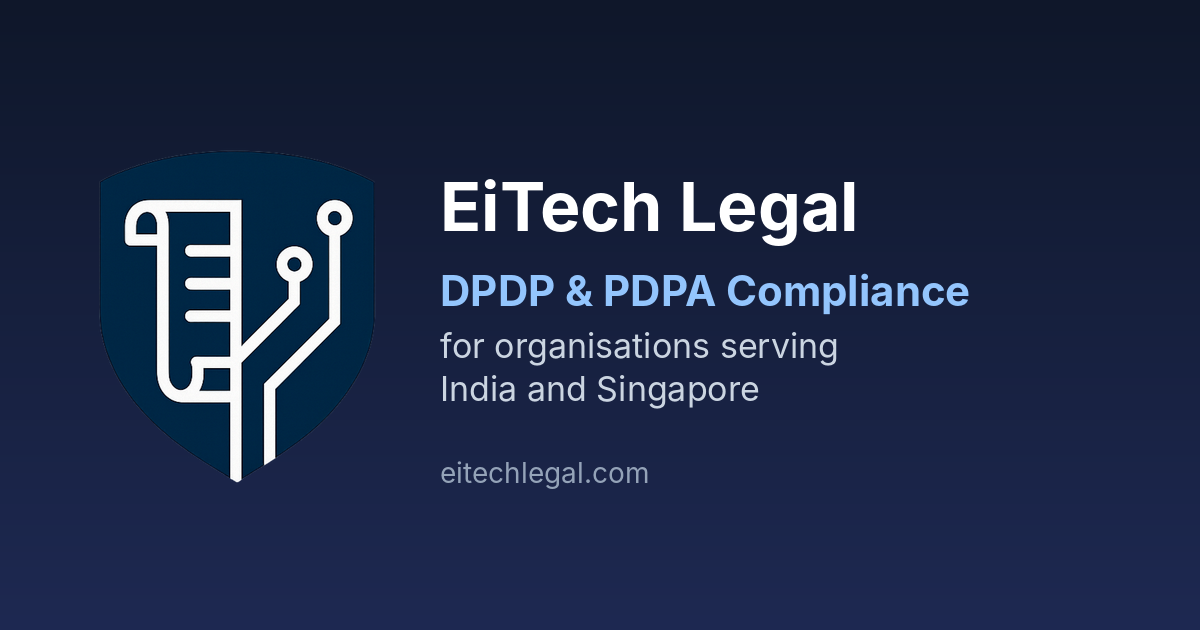
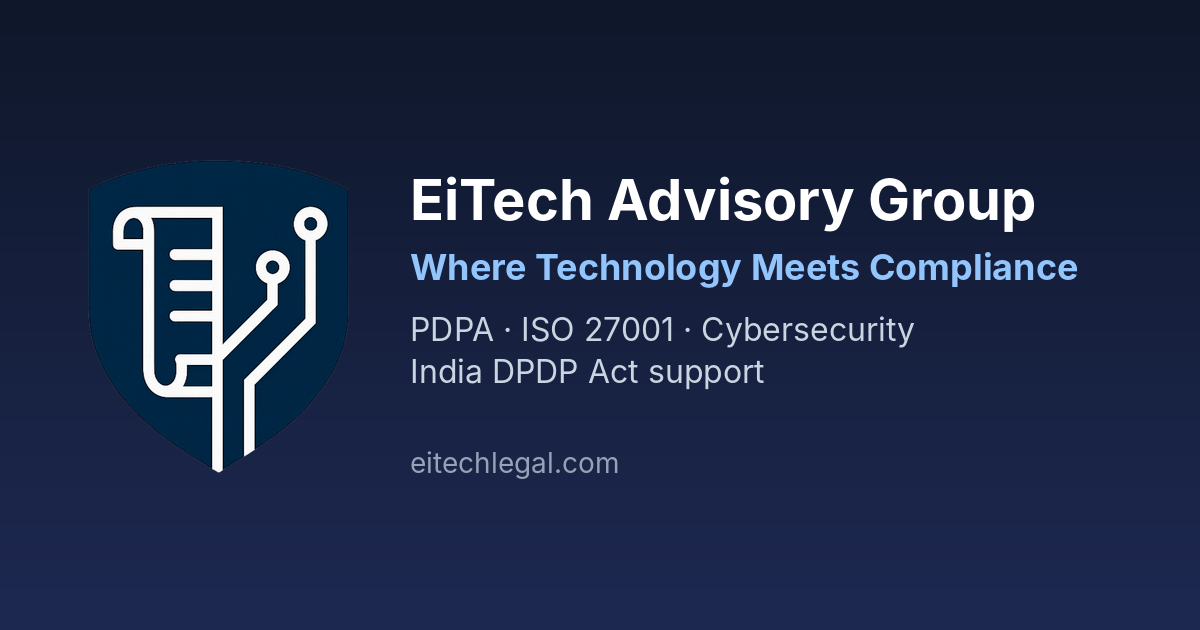
Rename site brand to registered name EiTech Advisory Group
- Logo text with Legal-Tech · Compliance · Cybersecurity tagline
- Page titles, share tags, share image and README use registered name
- Privacy policy and terms: "business" instead of "company"

Claude-Session: https://claude.ai/code/session_01K3U7yVqoyezVagjHfdywYb

Changed region(s): [[0.3392, 0.2714, 0.8942, 0.6635], [0.0925, 0.3016, 0.3083, 0.7841], [0.3392, 0.7238, 0.555, 0.7841]]

diff --git a/index.html b/index.html
@@ -3,21 +3,21 @@
 <head>
     <meta charset="UTF-8">
     <meta name="viewport" content="width=device-width, initial-scale=1.0">
-    <title>Data Protection, Cybersecurity &amp; PDPA Compliance | Singapore | EiTech Legal</title>
+    <title>Data Protection, Cybersecurity &amp; PDPA Compliance | Singapore | EiTech Advisory Group</title>
     <meta name="description" content="Where technology meets compliance: PDPA, ISO 27001, cybersecurity, DPO and database security advisory for Singapore businesses, from policy down to your systems.">
     <link rel="canonical" href="https://eitechlegal.com/">
     <link rel="icon" type="image/png" sizes="32x32" href="assets/favicon-32.png">
     <link rel="apple-touch-icon" href="assets/apple-touch-icon.png">
     <meta property="og:type" content="website">
-    <meta property="og:site_name" content="EiTech Legal">
-    <meta property="og:title" content="Data Protection, Cybersecurity &amp; PDPA Compliance | Singapore | EiTech Legal">
+    <meta property="og:site_name" content="EiTech Advisory Group">
+    <meta property="og:title" content="Data Protection, Cybersecurity &amp; PDPA Compliance | Singapore | EiTech Advisory Group">
     <meta property="og:description" content="Where technology meets compliance: PDPA, ISO 27001, cybersecurity, DPO and database security advisory for Singapore businesses, from policy down to your systems.">
     <meta property="og:url" content="https://eitechlegal.com/">
     <meta property="og:image" content="https://eitechlegal.com/assets/og-image.png">
     <meta property="og:image:width" content="1200">
     <meta property="og:image:height" content="630">
     <meta name="twitter:card" content="summary_large_image">
-    <script type="application/ld+json">{"@context": "https://schema.org", "@type": "ProfessionalService", "name": "EiTech Advisory Group", "alternateName": "EiTech Legal", "url": "https://eitechlegal.com/", "logo": "https://eitechlegal.com/logo.png", "image": "https://eitechlegal.com/assets/og-image.png", "email": "contact@eitechlegal.com", "address": {"@type": "PostalAddress", "addressCountry": "SG"}, "areaServed": ["SG", "IN"], "description": "Data protection, cybersecurity and PDPA compliance consulting in Singapore, with India DPDP Act support. Not a law firm; does not provide legal advice.", "knowsAbout": ["DPDP Act 2023", "PDPA", "ISO/IEC 27001", "Cybersecurity", "Data protection"]}</script>
+    <script type="application/ld+json">{"@context": "https://schema.org", "@type": "ProfessionalService", "name": "EiTech Advisory Group", "url": "https://eitechlegal.com/", "logo": "https://eitechlegal.com/logo.png", "image": "https://eitechlegal.com/assets/og-image.png", "email": "contact@eitechlegal.com", "address": {"@type": "PostalAddress", "addressCountry": "SG"}, "areaServed": ["SG", "IN"], "description": "Data protection, cybersecurity and PDPA compliance consulting in Singapore, with India DPDP Act support. Not a law firm; does not provide legal advice.", "knowsAbout": ["DPDP Act 2023", "PDPA", "ISO/IEC 27001", "Cybersecurity", "Data protection"]}</script>
     
     
     
@@ -627,8 +627,8 @@
     <nav class="navbar" id="navbar">
         <div class="nav-container">
             <a href="#home" class="logo">
-                <img src="logo.png" alt="EiTech Legal Logo" class="logo-img" onerror="this.style.display='none'">
-                <span class="logo-text">EiTech Legal</span>
+                <img src="logo.png" alt="EiTech Advisory Group logo" class="logo-img" onerror="this.style.display='none'">
+                <span class="logo-text">EiTech Advisory Group<small class="logo-tagline">Legal-Tech · Compliance · Cybersecurity</small></span>
             </a>
             <ul class="nav-menu">
                 <li><a href="#home" class="nav-link active">Home</a></li>
@@ -727,9 +727,9 @@
         <div class="container">
             <div class="about-content">
                 <div class="about-text">
-                    <h2>About EiTech Legal</h2>
+                    <h2>About EiTech Advisory Group</h2>
                     <p>
-                        EiTech Legal is a boutique advisory firm specializing in data protection, cybersecurity and regulatory compliance for organisations in Singapore and the region. We combine legal training with more than 25 years of hands-on enterprise IT experience, so compliance programmes are grounded in how your systems and data actually work.
+                        EiTech Advisory Group is a boutique advisory firm specializing in data protection, cybersecurity and regulatory compliance for organisations in Singapore and the region. We combine legal training with more than 25 years of hands-on enterprise IT experience, so compliance programmes are grounded in how your systems and data actually work.
                     </p>
                     <div class="founder-card">
                         <h3>About our founder</h3>

diff --git a/india.html b/india.html
@@ -3,14 +3,14 @@
 <head>
     <meta charset="UTF-8">
     <meta name="viewport" content="width=device-width, initial-scale=1.0">
-    <title>India DPDP Compliance &amp; Property Document Verification | EiTech Legal</title>
+    <title>India DPDP Compliance &amp; Property Document Verification | EiTech Advisory Group</title>
     <meta name="description" content="India-focused compliance services: DPDP Act readiness, property document verification support, cybersecurity and AI governance resources for organisations in India and Singapore.">
     <link rel="canonical" href="https://eitechlegal.com/india.html">
     <link rel="icon" type="image/png" sizes="32x32" href="assets/favicon-32.png">
     <link rel="apple-touch-icon" href="assets/apple-touch-icon.png">
     <meta property="og:type" content="website">
-    <meta property="og:site_name" content="EiTech Legal">
-    <meta property="og:title" content="India DPDP Compliance &amp; Property Document Verification | EiTech Legal">
+    <meta property="og:site_name" content="EiTech Advisory Group">
+    <meta property="og:title" content="India DPDP Compliance &amp; Property Document Verification | EiTech Advisory Group">
     <meta property="og:description" content="India-focused compliance services: DPDP Act readiness, property document verification support, cybersecurity and AI governance resources for organisations in India and Singapore.">
     <meta property="og:url" content="https://eitechlegal.com/india.html">
     <meta property="og:image" content="https://eitechlegal.com/assets/og-image.png">
@@ -465,8 +465,8 @@
     <nav class="navbar">
         <div class="nav-container">
             <a href="index.html" class="logo">
-                <img src="logo.png" alt="EiTech Legal Logo" class="logo-img" onerror="this.style.display='none'">
-                <span class="logo-text">EiTech Legal</span>
+                <img src="logo.png" alt="EiTech Advisory Group logo" class="logo-img" onerror="this.style.display='none'">
+                <span class="logo-text">EiTech Advisory Group<small class="logo-tagline">Legal-Tech · Compliance · Cybersecurity</small></span>
             </a>
             <ul class="nav-menu">
                 <li><a href="index.html">Home</a></li>
@@ -619,7 +619,7 @@
                         <li><a href="tel:18001144949" class="resource-link">CERT-In Helpdesk: 1800-11-4949</a></li>
                         <li><a href="https://cybercrime.gov.in/" class="resource-link external-link" target="_blank">National Cybercrime Reporting Portal</a></li>
                         <li><a href="tel:1930" class="resource-link">Cybercrime Helpline: 1930</a></li>
-                        <li><a href="mailto:contact@eitechlegal.com" class="resource-link">Contact EiTech (business hours)</a></li>
+                        <li><a href="mailto:contact@eitechlegal.com" class="resource-link">Contact us (business hours)</a></li>
                     </ul>
                 </div>
             </div>

diff --git a/resources.html b/resources.html
@@ -3,14 +3,14 @@
 <head>
     <meta charset="UTF-8">
     <meta name="viewport" content="width=device-width, initial-scale=1.0">
-    <title>PDPA, Cybersecurity &amp; Compliance Resources for Singapore | EiTech Legal</title>
+    <title>PDPA, Cybersecurity &amp; Compliance Resources for Singapore | EiTech Advisory Group</title>
     <meta name="description" content="Curated official resources on Singapore&#x27;s PDPA, data breach notification, CSA cybersecurity schemes, ISO 27001, NIST CSF and GDPR.">
     <link rel="canonical" href="https://eitechlegal.com/resources.html">
     <link rel="icon" type="image/png" sizes="32x32" href="assets/favicon-32.png">
     <link rel="apple-touch-icon" href="assets/apple-touch-icon.png">
     <meta property="og:type" content="website">
-    <meta property="og:site_name" content="EiTech Legal">
-    <meta property="og:title" content="PDPA, Cybersecurity &amp; Compliance Resources for Singapore | EiTech Legal">
+    <meta property="og:site_name" content="EiTech Advisory Group">
+    <meta property="og:title" content="PDPA, Cybersecurity &amp; Compliance Resources for Singapore | EiTech Advisory Group">
     <meta property="og:description" content="Curated official resources on Singapore&#x27;s PDPA, data breach notification, CSA cybersecurity schemes, ISO 27001, NIST CSF and GDPR.">
     <meta property="og:url" content="https://eitechlegal.com/resources.html">
     <meta property="og:image" content="https://eitechlegal.com/assets/og-image.png">
@@ -285,8 +285,8 @@
     <nav class="navbar">
         <div class="nav-container">
             <a href="index.html" class="logo">
-                <img src="logo.png" alt="EiTech Legal Logo" class="logo-img" onerror="this.style.display='none'">
-                <span class="logo-text">EiTech Legal</span>
+                <img src="logo.png" alt="EiTech Advisory Group logo" class="logo-img" onerror="this.style.display='none'">
+                <span class="logo-text">EiTech Advisory Group<small class="logo-tagline">Legal-Tech · Compliance · Cybersecurity</small></span>
             </a>
             <ul class="nav-menu">
                 <li><a href="index.html">Home</a></li>
@@ -387,7 +387,7 @@
                         <li><a href="https://www.pdpc.gov.sg/report-data-breach" class="resource-link external-link" target="_blank">PDPC Data Breach Notification</a></li>
                         <li><a href="tel:18002550000" class="resource-link">Police Hotline: 1800 255 0000</a></li>
                         <li><a href="tel:1799" class="resource-link">ScamShield Helpline: 1799</a></li>
-                        <li><a href="mailto:contact@eitechlegal.com" class="resource-link">Contact EiTech (business hours)</a></li>
+                        <li><a href="mailto:contact@eitechlegal.com" class="resource-link">Contact us (business hours)</a></li>
                     </ul>
                 </div>
             </div>

diff --git a/privacy.html b/privacy.html
@@ -3,14 +3,14 @@
 <head>
 <meta charset="UTF-8">
 <meta name="viewport" content="width=device-width, initial-scale=1.0">
-<title>Privacy Policy | EiTech Legal</title>
+<title>Privacy Policy | EiTech Advisory Group</title>
 <meta name="description" content="How EiTech Advisory Group collects, uses and protects personal data.">
     <link rel="canonical" href="https://eitechlegal.com/privacy.html">
     <link rel="icon" type="image/png" sizes="32x32" href="assets/favicon-32.png">
     <link rel="apple-touch-icon" href="assets/apple-touch-icon.png">
     <meta property="og:type" content="website">
-    <meta property="og:site_name" content="EiTech Legal">
-    <meta property="og:title" content="Privacy Policy | EiTech Legal">
+    <meta property="og:site_name" content="EiTech Advisory Group">
+    <meta property="og:title" content="Privacy Policy | EiTech Advisory Group">
     <meta property="og:description" content="How EiTech Advisory Group collects, uses and protects personal data.">
     <meta property="og:url" content="https://eitechlegal.com/privacy.html">
     <meta property="og:image" content="https://eitechlegal.com/assets/og-image.png">
@@ -40,7 +40,7 @@
   <div class="updated">Last updated: 22 November 2026</div>
 </div></header>
 <main><div class="wrap">
-<p>EiTech Advisory Group ("we", "us", "our") is a company registered in Singapore that operates the eitechlegal.com website. We respect your privacy. This policy explains what personal data we collect through this website and our services, how we use it and the choices you have. We handle personal data in line with Singapore's Personal Data Protection Act 2012 (PDPA) and, where it applies, India's Digital Personal Data Protection Act, 2023.</p>
+<p>EiTech Advisory Group ("we", "us", "our") is a business registered in Singapore that operates the eitechlegal.com website. We respect your privacy. This policy explains what personal data we collect through this website and our services, how we use it and the choices you have. We handle personal data in line with Singapore's Personal Data Protection Act 2012 (PDPA) and, where it applies, India's Digital Personal Data Protection Act, 2023.</p>
 
 <h2>1. Personal data we collect</h2>
 <ul>

diff --git a/terms.html b/terms.html
@@ -3,14 +3,14 @@
 <head>
 <meta charset="UTF-8">
 <meta name="viewport" content="width=device-width, initial-scale=1.0">
-<title>Terms of Use | EiTech Legal</title>
+<title>Terms of Use | EiTech Advisory Group</title>
 <meta name="description" content="Terms of use for the eitechlegal.com website, operated by EiTech Advisory Group.">
     <link rel="canonical" href="https://eitechlegal.com/terms.html">
     <link rel="icon" type="image/png" sizes="32x32" href="assets/favicon-32.png">
     <link rel="apple-touch-icon" href="assets/apple-touch-icon.png">
     <meta property="og:type" content="website">
-    <meta property="og:site_name" content="EiTech Legal">
-    <meta property="og:title" content="Terms of Use | EiTech Legal">
+    <meta property="og:site_name" content="EiTech Advisory Group">
+    <meta property="og:title" content="Terms of Use | EiTech Advisory Group">
     <meta property="og:description" content="Terms of use for the eitechlegal.com website, operated by EiTech Advisory Group.">
     <meta property="og:url" content="https://eitechlegal.com/terms.html">
     <meta property="og:image" content="https://eitechlegal.com/assets/og-image.png">
@@ -40,7 +40,7 @@
   <div class="updated">Last updated: 22 November 2026</div>
 </div></header>
 <main><div class="wrap">
-<p>These terms apply to your use of the eitechlegal.com website, operated by EiTech Advisory Group, a company registered in Singapore. By using this website, you agree to them. If you don't agree, please don't use the website.</p>
+<p>These terms apply to your use of the eitechlegal.com website, operated by EiTech Advisory Group, a business registered in Singapore. By using this website, you agree to them. If you don't agree, please don't use the website.</p>
 
 <h2>1. Not legal advice</h2>
 <p>EiTech Advisory Group provides compliance and technical consulting services only. We are not a law firm and do not practise law in any jurisdiction. Nothing on this website, in our tools or in our reports is legal advice, and using this website or contacting us does not create a lawyer–client relationship. Please obtain independent legal advice from a qualified advocate or solicitor before making decisions on legal matters.</p>

diff --git a/dpdp.html b/dpdp.html
@@ -3,14 +3,14 @@
 <head>
 <meta charset="UTF-8">
 <meta name="viewport" content="width=device-width, initial-scale=1.0">
-<title>DPDP Act Compliance Consultant | Readiness Assessment | EiTech Legal</title>
+<title>DPDP Act Compliance Consultant | Readiness Assessment | EiTech Advisory Group</title>
 <meta name="description" content="India DPDP Act 2023 and DPDP Rules 2025 compliance support: readiness assessments, personal data discovery in your databases, security safeguards and breach readiness before May 2027.">
     <link rel="canonical" href="https://eitechlegal.com/dpdp.html">
     <link rel="icon" type="image/png" sizes="32x32" href="assets/favicon-32.png">
     <link rel="apple-touch-icon" href="assets/apple-touch-icon.png">
     <meta property="og:type" content="website">
-    <meta property="og:site_name" content="EiTech Legal">
-    <meta property="og:title" content="DPDP Act Compliance Consultant | Readiness Assessment | EiTech Legal">
+    <meta property="og:site_name" content="EiTech Advisory Group">
+    <meta property="og:title" content="DPDP Act Compliance Consultant | Readiness Assessment | EiTech Advisory Group">
     <meta property="og:description" content="India DPDP Act 2023 and DPDP Rules 2025 compliance support: readiness assessments, personal data discovery in your databases, security safeguards and breach readiness before May 2027.">
     <meta property="og:url" content="https://eitechlegal.com/dpdp.html">
     <meta property="og:image" content="https://eitechlegal.com/assets/og-image.png">
@@ -182,7 +182,7 @@
 
 <section>
   <div class="wrap">
-    <h2>Why EiTech</h2>
+    <h2>Why EiTech Advisory Group</h2>
     <div class="grid">
       <div class="card"><h3>Law and technology together</h3><p>Our founder holds an LLB and a Master's in Law alongside a Master's in Software Engineering and an MBA, so we read the regulation and the database schema with equal care.</p></div>
       <div class="card"><h3>25+ years in enterprise IT</h3><p>Hands-on experience running large multi-platform database estates, storage and data-centre operations for enterprise environments.</p></div>

diff --git a/assets/site.css b/assets/site.css
@@ -18,3 +18,11 @@
   .navbar .nav-menu.open li { list-style: none; }
   .navbar .nav-menu.open a { display: block; padding: 0.75rem 0; border-bottom: 1px solid rgba(255, 255, 255, 0.08); }
 }
+
+/* Logo with tagline */
+.logo-text { display: inline-flex; flex-direction: column; line-height: 1.15; }
+.logo-tagline { font-size: 0.68rem; font-weight: 500; letter-spacing: 0.04em; color: #93c5fd; margin-top: 2px; }
+@media (max-width: 420px) {
+  .logo-text { font-size: 1.05rem !important; }
+  .logo-tagline { font-size: 0.6rem; }
+}

diff --git a/thanks.html b/thanks.html
@@ -3,7 +3,7 @@
 <head>
 <meta charset="UTF-8">
 <meta name="viewport" content="width=device-width, initial-scale=1.0">
-<title>Thank You | EiTech Legal</title>
+<title>Thank You | EiTech Advisory Group</title>
 <meta name="robots" content="noindex">
 <link rel="icon" type="image/png" sizes="32x32" href="assets/favicon-32.png">
 <style>

diff --git a/README.md b/README.md
@@ -1,6 +1,6 @@
 # eitechlegal.com
 
-Source for the [EiTech Legal](https://eitechlegal.com) website, operated by EiTech Advisory Group (Singapore). The site describes our DPDP and PDPA compliance, cybersecurity and data security consulting services.
+Source for the [EiTech Advisory Group](https://eitechlegal.com) website (Singapore). The site describes our DPDP and PDPA compliance, cybersecurity and data security consulting services.
 
 EiTech Advisory Group provides compliance and technical consulting only. It is not a law firm and does not provide legal advice.
 
